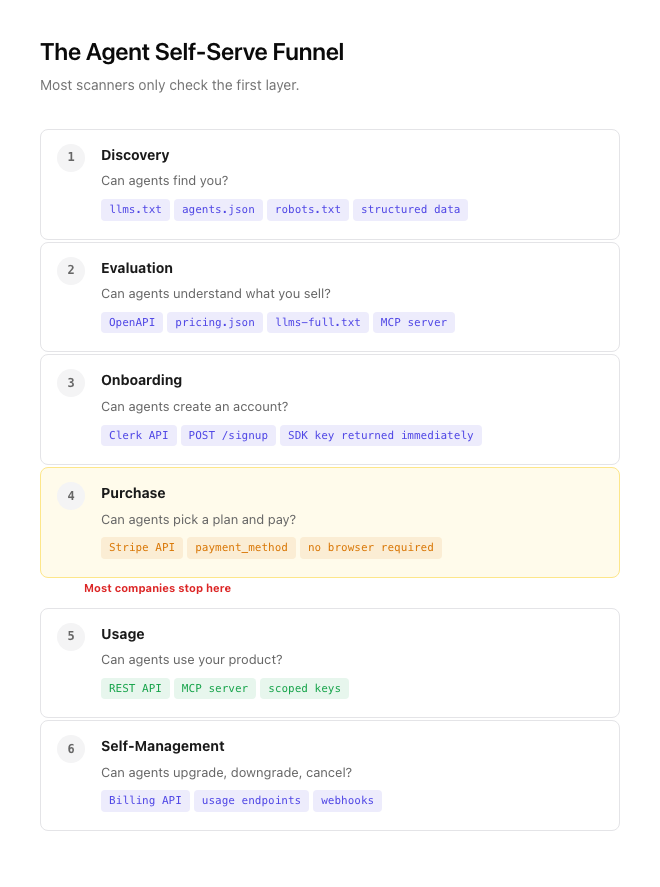
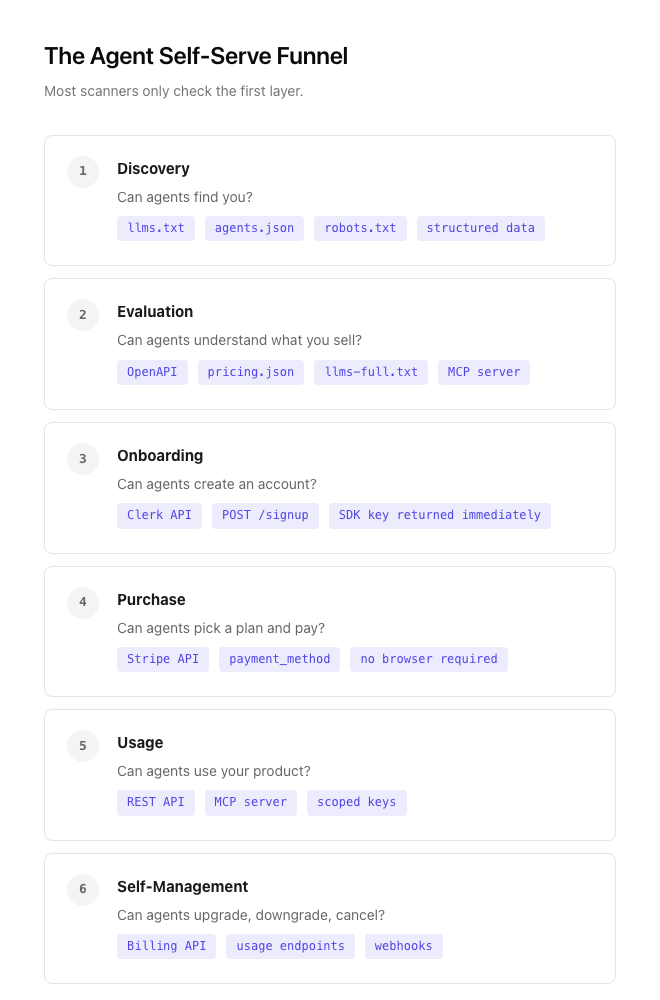
clean up funnel illustration and separate install commands
Funnel: remove yellow highlight and "most companies stop here" callout,
all steps equal weight. Install commands: separate code blocks under
each skill description so each is individually copiable.

diff --git a/blog/agent-self-serve.html b/blog/agent-self-serve.html
@@ -86,9 +86,7 @@
         </a>
       </div>
     </div>
-    <p>I wanted to know if an AI agent could sign up for my product, pick a plan, pay, and start using it without a human involved. Not "AI-powered features." The other kind of agent-ready. Where an agent is the customer.</p><p>I spent a few months making two of my properties fully agent-accessible. A personal site and a B2B product. I captured the process as two open-source Claude Code skills.</p><hr><h2>Two problems, two skills</h2><p>I have a personal site (<a href="https://katrinalaszlo.com">katrinalaszlo.com</a>) and a B2B product (<a href="https://www.tansohq.com">Tanso</a>). Different goals, same question: can an AI agent do anything useful here?</p><p>For the personal site, the question is discovery. Can an agent figure out who I am, what I know, and how to reach me?</p><p>For Tanso, the question is deeper. Can an agent evaluate the product, sign up, choose a plan, and start sending API calls?</p><p>I started by running third-party scanners. <a href="https://blog.cloudflare.com/agent-readiness/">Cloudflare's isitagentready.com</a> checks for robots.txt, llms.txt, MCP servers, API catalogs. <a href="https://buildwithfern.com/agent-score">Fern's Agent Score</a> grades documentation on 22 checks. A <a href="https://lilagents.com/blog/how-the-fortune-500-scores-on-ai-agent-readiness/">lilAgents study</a> scanned the Fortune 500 and found the average score was 25%.</p><p>I kept running these checks manually after every deploy. So I built the tool.</p><p><strong><a href="https://github.com/katrinalaszlo/agent-web">agent-web</a></strong> scores your site on three layers (discoverable, parseable, actionable), then generates the missing files directly into your repo.</p><p><strong><a href="https://github.com/katrinalaszlo/agent-serve">agent-serve</a></strong> audits whether an agent can actually be your customer. Five dimensions: onboarding, authentication, purchasing, usage monitoring, self-management.</p><pre><code class="language-bash">npx skills add katrinalaszlo/agent-web
-npx skills add katrinalaszlo/agent-serve</code></pre><hr><h2>The agent self-serve funnel</h2><p>Agent-readiness is a funnel. Most scanners only check the top layer.</p><p><img src="/blog/images/agent-self-serve-funnel.png" alt="The agent self-serve funnel" loading="lazy"></p><p>Cloudflare, Fern, and every other scanner checks discovery. Do you have llms.txt? Score.</p><p>agent-serve checks the rest.</p><hr><h2>How I wired it for Observe</h2><p><a href="https://github.com/katrinalaszlo/observe">Observe</a> is my open-source AI cost observability tool. It already had Stripe billing and Clerk auth for humans. Making it agent-accessible meant opening the same infrastructure through a different door.</p><p><strong>Signup.</strong> One endpoint: `POST /signup`. Creates a Clerk user, local account, and SDK key in a single call. No browser, no email verification, no OAuth dance. Rate-limited to 3/hr. If the DB insert fails, a compensating delete removes the Clerk user. Agent gets back a scoped API key immediately.</p><p><strong>Auth.</strong> Capability keys with scopes: `events.write`, `usage.read`, `billing.read`, `proxy.chat`. Agents get limited scopes at signup. Elevated scopes (admin, write, alerts) require a human-authenticated `POST /sdk-keys`. Budgets enforce spend limits per key with monthly or daily reset.</p><p><strong>Plan visibility.</strong> `GET /plan` returns the current tier, feature limits, and usage. No dashboard needed.</p><p><strong>Purchase.</strong> Stripe's Billing Portal is browser-only. That's what humans use. For agents, I needed programmatic plan selection and payment.</p><p>The first attempt made this seem harder than it was. Stripe's API supports `payment_method` on subscription creation. Agent passes a tokenized card, Stripe creates the subscription. No checkout page. No redirect. No human. One parameter.</p><p><strong>Self-management.</strong> Agents introspect their own key (`GET /sdk-keys/me`), check remaining budget, see expiry. Upgrades and downgrades go through the same Stripe API.</p><p>Eleven route groups accepting SDK keys. The middleware tries Clerk JWT first, falls back to SDK key lookup. Same auth, different door.</p><hr><h2>Running it on other companies</h2><p><img src="/blog/images/agent-self-serve-scorecard.png" alt="Agent-readiness scores across companies" loading="lazy"></p><p>Stripe scores 6/10 on a flat rubric despite having a published <a href="https://github.com/stripe/openapi">OpenAPI spec</a> and an <a href="https://docs.stripe.com/agents">agent toolkit</a> supporting five frameworks.</p><p>The flat score doesn't capture capability depth. Nobody's does. Not Cloudflare's, not Fern's, not mine.</p><p>The signals that matter depend on what you're solving for. Discovery or capability. Can agents find you, or can agents use you.</p><hr><h2>Nobody has agents.json</h2><p>Not Stripe. Not Vercel. Not Linear. Not Notion.</p><p>Everyone has robots.txt. Most developer tools now have llms.txt. MCP servers are spreading. But agents.json, the machine-readable manifest that tells an agent what you are and what you can do? Zero third-party sites.</p><p><a href="https://www.agentmail.to/">AgentMail</a>, whose entire product is infrastructure for AI agents, doesn't have llms.txt on their marketing site. Their customers find them through SDK installs, not web crawling.</p><p>Discovery signals matter when agents need to find you by crawling. Capability signals matter when agents need to use you. Most companies are building the capability layer and skipping discovery.</p><hr><h2>Some numbers</h2><p><strong>73%</strong> of top API docs sites lack llms.txt (<a href="https://buildwithfern.com/agent-score">Fern</a>).</p><p><strong>4%</strong> of sites declare AI usage preferences in robots.txt (<a href="https://blog.cloudflare.com/agent-readiness/">Cloudflare</a>).</p><p><strong>25%</strong> average Fortune 500 agent-readiness score (<a href="https://lilagents.com/blog/how-the-fortune-500-scores-on-ai-agent-readiness/">lilAgents</a>).</p><p><strong>0</strong> third-party sites I found with agents.json.</p><hr><h2>What's next</h2><p>I'm adding a benchmark mode that hits Cloudflare's scanner and Fern's Agent Score as external validation.</p><p>The deeper question: what does self-serve for agents look like end-to-end? Not just discovery. The full funnel. Evaluate, sign up, pay, use, manage. The companies that wire this up first will have a distribution channel that's invisible to everyone else.</p><pre><code class="language-bash">npx skills add katrinalaszlo/agent-web
-npx skills add katrinalaszlo/agent-serve</code></pre>
+    <p>I wanted to know if an AI agent could sign up for my product, pick a plan, pay, and start using it without a human involved. Not "AI-powered features." The other kind of agent-ready. Where an agent is the customer.</p><p>I spent a few months making two of my properties fully agent-accessible. A personal site and a B2B product. I captured the process as two open-source Claude Code skills.</p><hr><h2>Two problems, two skills</h2><p>I have a personal site (<a href="https://katrinalaszlo.com">katrinalaszlo.com</a>) and a B2B product (<a href="https://www.tansohq.com">Tanso</a>). Different goals, same question: can an AI agent do anything useful here?</p><p>For the personal site, the question is discovery. Can an agent figure out who I am, what I know, and how to reach me?</p><p>For Tanso, the question is deeper. Can an agent evaluate the product, sign up, choose a plan, and start sending API calls?</p><p>I started by running third-party scanners. <a href="https://blog.cloudflare.com/agent-readiness/">Cloudflare's isitagentready.com</a> checks for robots.txt, llms.txt, MCP servers, API catalogs. <a href="https://buildwithfern.com/agent-score">Fern's Agent Score</a> grades documentation on 22 checks. A <a href="https://lilagents.com/blog/how-the-fortune-500-scores-on-ai-agent-readiness/">lilAgents study</a> scanned the Fortune 500 and found the average score was 25%.</p><p>I kept running these checks manually after every deploy. So I built the tool.</p><p><strong><a href="https://github.com/katrinalaszlo/agent-web">agent-web</a></strong> scores your site on three layers (discoverable, parseable, actionable), then generates the missing files directly into your repo.</p><pre><code class="language-bash">npx skills add katrinalaszlo/agent-web</code></pre><p><strong><a href="https://github.com/katrinalaszlo/agent-serve">agent-serve</a></strong> audits whether an agent can actually be your customer. Five dimensions: onboarding, authentication, purchasing, usage monitoring, self-management.</p><pre><code class="language-bash">npx skills add katrinalaszlo/agent-serve</code></pre><hr><h2>The agent self-serve funnel</h2><p>Agent-readiness is a funnel. Most scanners only check the top layer.</p><p><img src="/blog/images/agent-self-serve-funnel.png" alt="The agent self-serve funnel" loading="lazy"></p><p>Cloudflare, Fern, and every other scanner checks discovery. Do you have llms.txt? Score.</p><p>agent-serve checks the rest.</p><hr><h2>How I wired it for Observe</h2><p><a href="https://github.com/katrinalaszlo/observe">Observe</a> is my open-source AI cost observability tool. It already had Stripe billing and Clerk auth for humans. Making it agent-accessible meant opening the same infrastructure through a different door.</p><p><strong>Signup.</strong> One endpoint: `POST /signup`. Creates a Clerk user, local account, and SDK key in a single call. No browser, no email verification, no OAuth dance. Rate-limited to 3/hr. If the DB insert fails, a compensating delete removes the Clerk user. Agent gets back a scoped API key immediately.</p><p><strong>Auth.</strong> Capability keys with scopes: `events.write`, `usage.read`, `billing.read`, `proxy.chat`. Agents get limited scopes at signup. Elevated scopes (admin, write, alerts) require a human-authenticated `POST /sdk-keys`. Budgets enforce spend limits per key with monthly or daily reset.</p><p><strong>Plan visibility.</strong> `GET /plan` returns the current tier, feature limits, and usage. No dashboard needed.</p><p><strong>Purchase.</strong> Stripe's Billing Portal is browser-only. That's what humans use. For agents, I needed programmatic plan selection and payment.</p><p>The first attempt made this seem harder than it was. Stripe's API supports `payment_method` on subscription creation. Agent passes a tokenized card, Stripe creates the subscription. No checkout page. No redirect. No human. One parameter.</p><p><strong>Self-management.</strong> Agents introspect their own key (`GET /sdk-keys/me`), check remaining budget, see expiry. Upgrades and downgrades go through the same Stripe API.</p><p>Eleven route groups accepting SDK keys. The middleware tries Clerk JWT first, falls back to SDK key lookup. Same auth, different door.</p><hr><h2>Running it on other companies</h2><p><img src="/blog/images/agent-self-serve-scorecard.png" alt="Agent-readiness scores across companies" loading="lazy"></p><p>Stripe scores 6/10 on a flat rubric despite having a published <a href="https://github.com/stripe/openapi">OpenAPI spec</a> and an <a href="https://docs.stripe.com/agents">agent toolkit</a> supporting five frameworks.</p><p>The flat score doesn't capture capability depth. Nobody's does. Not Cloudflare's, not Fern's, not mine.</p><p>The signals that matter depend on what you're solving for. Discovery or capability. Can agents find you, or can agents use you.</p><hr><h2>Nobody has agents.json</h2><p>Not Stripe. Not Vercel. Not Linear. Not Notion.</p><p>Everyone has robots.txt. Most developer tools now have llms.txt. MCP servers are spreading. But agents.json, the machine-readable manifest that tells an agent what you are and what you can do? Zero third-party sites.</p><p><a href="https://www.agentmail.to/">AgentMail</a>, whose entire product is infrastructure for AI agents, doesn't have llms.txt on their marketing site. Their customers find them through SDK installs, not web crawling.</p><p>Discovery signals matter when agents need to find you by crawling. Capability signals matter when agents need to use you. Most companies are building the capability layer and skipping discovery.</p><hr><h2>Some numbers</h2><p><strong>73%</strong> of top API docs sites lack llms.txt (<a href="https://buildwithfern.com/agent-score">Fern</a>).</p><p><strong>4%</strong> of sites declare AI usage preferences in robots.txt (<a href="https://blog.cloudflare.com/agent-readiness/">Cloudflare</a>).</p><p><strong>25%</strong> average Fortune 500 agent-readiness score (<a href="https://lilagents.com/blog/how-the-fortune-500-scores-on-ai-agent-readiness/">lilAgents</a>).</p><p><strong>0</strong> third-party sites I found with agents.json.</p><hr><h2>What's next</h2><p>I'm adding a benchmark mode that hits Cloudflare's scanner and Fern's Agent Score as external validation.</p><p>The deeper question: what does self-serve for agents look like end-to-end? Not just discovery. The full funnel. Evaluate, sign up, pay, use, manage. The companies that wire this up first will have a distribution channel that's invisible to everyone else.</p><pre><code class="language-bash">npx skills add katrinalaszlo/agent-web</code></pre><pre><code class="language-bash">npx skills add katrinalaszlo/agent-serve</code></pre>
   </article>
 
 

diff --git a/blog/agent-self-serve.md b/blog/agent-self-serve.md
@@ -27,10 +27,13 @@ I kept running these checks manually after every deploy. So I built the tool.
 
 **[agent-web](https://github.com/katrinalaszlo/agent-web)** scores your site on three layers (discoverable, parseable, actionable), then generates the missing files directly into your repo.
 
+```bash
+npx skills add katrinalaszlo/agent-web
+```
+
 **[agent-serve](https://github.com/katrinalaszlo/agent-serve)** audits whether an agent can actually be your customer. Five dimensions: onboarding, authentication, purchasing, usage monitoring, self-management.
 
 ```bash
-npx skills add katrinalaszlo/agent-web
 npx skills add katrinalaszlo/agent-serve
 ```
 
@@ -112,5 +115,8 @@ The deeper question: what does self-serve for agents look like end-to-end? Not j
 
 ```bash
 npx skills add katrinalaszlo/agent-web
+```
+
+```bash
 npx skills add katrinalaszlo/agent-serve
 ```
